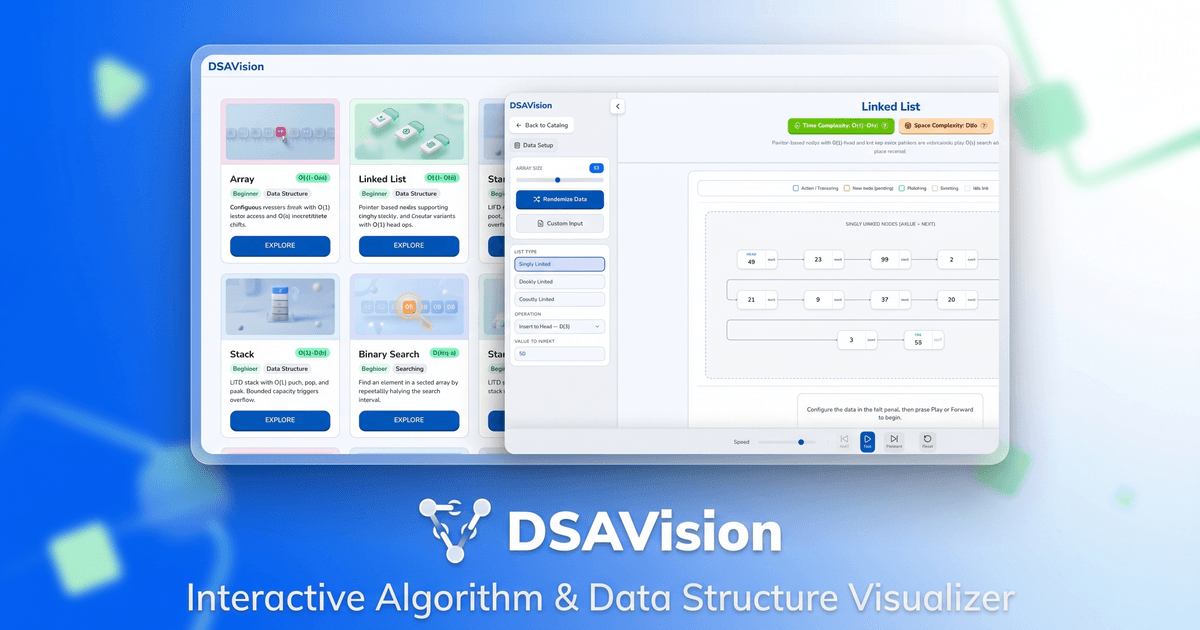
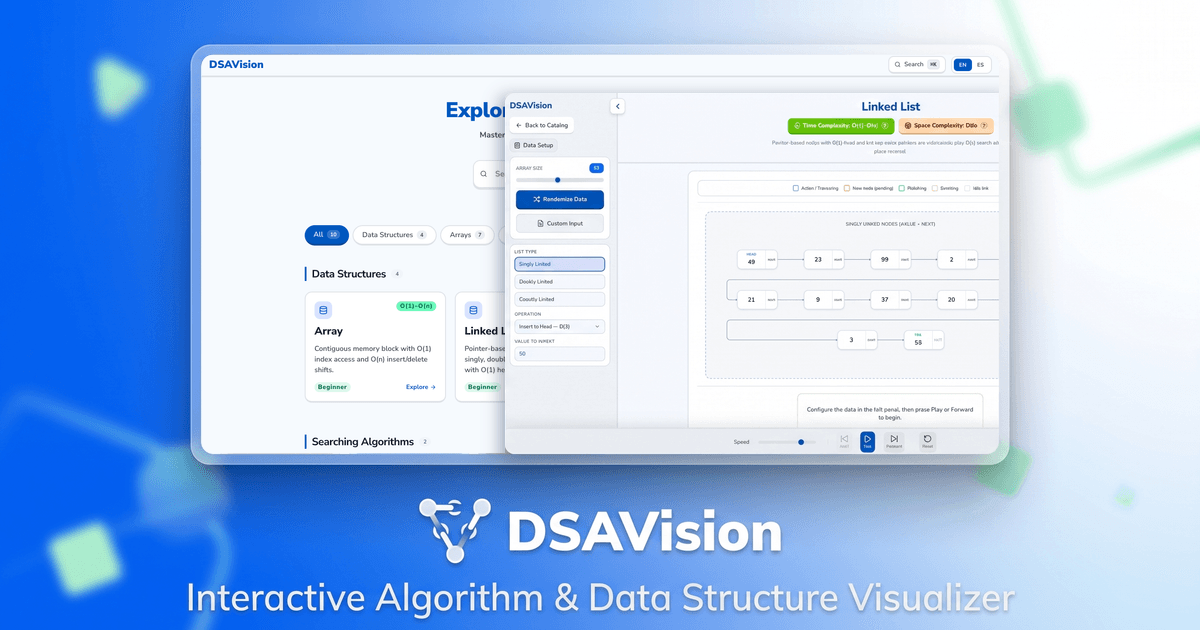
chore(seo): refresh og-image with current catalog and added as repo preview

Changed region(s): [[0.185, 0.1508, 0.4317, 0.7238], [0.74, 0.0905, 0.8325, 0.1206], [0.1542, 0.0905, 0.2158, 0.1206]]

diff --git a/README.md b/README.md
@@ -1,5 +1,7 @@
 # DSAVision
 
+[![DSAVision preview](public/og-image.png)](https://www.dsavision.dev/)
+
 **An interactive platform for learning and visualizing data structures and algorithms.**
 
 DSAVision turns abstract pointer logic and algorithm execution into step-by-step visual stories: smooth SVG animations, side-by-side code execution in multiple languages (**Python, JavaScript, Java, Pseudocode**), and interactive playback controls.
